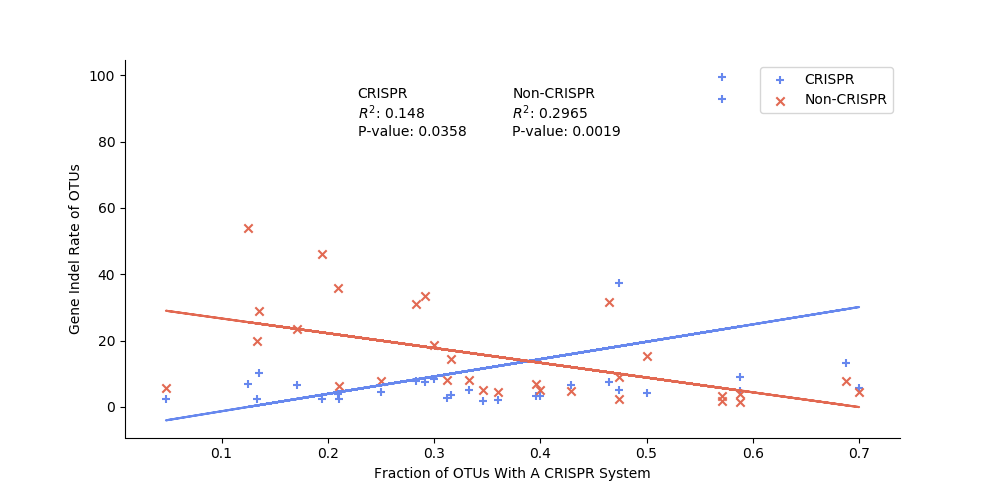
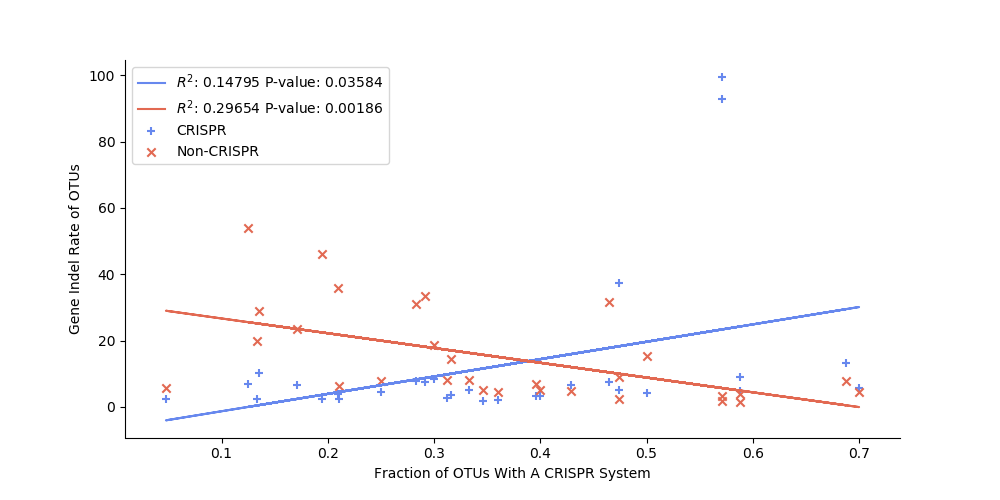
reworked legends with regression lines

Changed region(s): [[0.124, 0.15, 0.465, 0.33], [0.496, 0.18, 0.62, 0.27], [0.806, 0.12, 0.899, 0.21]]

diff --git a/scripts/plottingUtils.py b/scripts/plottingUtils.py
@@ -213,35 +213,46 @@ def cVsncRate(nohdf,size=(10,5),dpi=50,file=False):
 
 def cVsncClust(nohdf,size=(10,5),dpi=50,file=False):
     fig, ax = plt.subplots(figsize=size)
-    #data
+    cols = sns.color_palette('coolwarm')
+    blue,red = cols[0],cols[-1]
+    #lin reg
     x,y = 'c_mean_clust', 'nc_mean_clust'
+    xdata = nohdf[x].astype(float).values
+    ydata = nohdf[y].astype(float).values
+    m,b,r,p,se = sst.linregress(xdata,ydata)
+    y = lambda x:m*x+b
     #main fig
-    sns.scatterplot(x=x,y=y,data=nohdf,ax=ax)
+    ax.scatter(xdata,ydata,color=blue)
+    ax.plot(xdata,y(xdata),color=red,
+       label='$R^2$: {}  P-val: {}'.format(np.round(r**2,5),np.round(p,20)))
     ax.set_xlabel('Non-CRISPR Mean Clustering Coefficient')
     ax.set_ylabel('CRISPR Mean Clustering Coefficient')
     ax.spines['right'].set_visible(False)
     ax.spines['top'].set_visible(False)
+    ax.legend()
     #inlet fig
-#    axins = ins.zoomed_inset_axes(ax,2.5,loc=1)
-#    sns.scatterplot(x=x,y=y,data=nohdf,ax=axins)
-#    axins.set_xlim(0,10)
-#    axins.set_ylim(0,20)
-#    axins.xaxis.set_ticks_position('none')
-#    axins.yaxis.set_ticks_position('none')
-#    axins.set_xticklabels([])
-#    axins.set_yticklabels([])
-#    axins.set_xlabel('')
-#    axins.set_ylabel('')
-#    ins.mark_inset(ax,axins,loc1=2,loc2=4,fc='none',ec='0.5')
+    axins = ins.zoomed_inset_axes(ax,1.35,loc=4)
+    axins.scatter(xdata,ydata,color=blue)
+    axins.plot(xdata,y(xdata),color=red)
+    axins.set_xlim(0.03,0.16)
+    axins.set_ylim(0.02,0.17)
+    axins.xaxis.set_ticks_position('none')
+    axins.yaxis.set_ticks_position('none')
+    axins.set_xticklabels([])
+    axins.set_yticklabels([])
+    axins.set_xlabel('')
+    axins.set_ylabel('')
+    ins.mark_inset(ax,axins,loc1=2,loc2=4,fc='none',ec='0.5')
     #wilcoxon annotate
-#    wilx = sst.wilcoxon(nohdf[x],nohdf[y],zero_method='pratt')
-#    text = 'Wilcoxon Rank: {}\nP-Value: {}'.format(wilx.statistic,
-#                                                np.round(wilx.pvalue,5))
-#    axins.annotate(text,xy=(0.05,0.75),xycoords='axes fraction')
+    wilx = sst.wilcoxon(xdata,ydata,zero_method='pratt')
+    text = 'Wilcoxon Rank: {}\nP-Value: {}'.format(wilx.statistic,
+                                                np.round(wilx.pvalue,5))
+    axins.annotate(text,xy=(0.43,0.05),xycoords='axes fraction')
     if type(file) != bool:
         fig.savefig(file,dpi=dpi,format='png',frameon=False)
     plt.show()
-def rateVsCFrac(nohdf,size=(10,5),dec=4,dpi=50,file=False):
+
+def rateVsCFrac(nohdf,size=(10,5),dec=5,dpi=50,file=False):
     #Data
     x = nohdf['c_otus']
     y1 = nohdf['c_indel']
@@ -251,20 +262,16 @@ def rateVsCFrac(nohdf,size=(10,5),dec=4,dpi=50,file=False):
     cols = sns.color_palette('coolwarm')
     ax.scatter(x=x,y=y1,color=cols[0],marker='+',label='CRISPR')
     ax.scatter(x=x,y=y2,color=cols[-1],marker='x',label='Non-CRISPR')
-    plt.legend()
     #CRISPR
     m,b,r,p,se = sst.linregress(x,y1)
     y = lambda x:m*x+b
-    ax.plot(x,y(x),color=cols[0])
-    text = 'CRISPR\n$R^2$: {}\nP-value: {}'.format(np.round(r**2,dec),np.round(p,dec))
-    ax.annotate(text,xy=(0.3,0.80),xycoords='axes fraction')
+    ax.plot(x,y(x),color=cols[0],label='$R^2$: {} P-value: {}'.format(np.round(r**2,dec),np.round(p,dec)))
     #Non-CRISPR
     m,b,r,p,se = sst.linregress(x,y2)
     y = lambda x:m*x+b
-    ax.plot(x,y(x),color=cols[-1])
-    text='Non-CRISPR\n$R^2$: {}\nP-value: {}'.format(np.round(r**2,dec),np.round(p,dec))
-    ax.annotate(text,xy=(0.5,0.80),xycoords='axes fraction')
+    ax.plot(x,y(x),color=cols[-1],label='$R^2$: {} P-value: {}'.format(np.round(r**2,dec),np.round(p,dec)))
     #plot formatting
+    plt.legend()
     ax.set_xlabel('Fraction of OTUs With A CRISPR System')
     ax.set_ylabel('Gene Indel Rate of OTUs')
     ax.spines['right'].set_visible(False)
